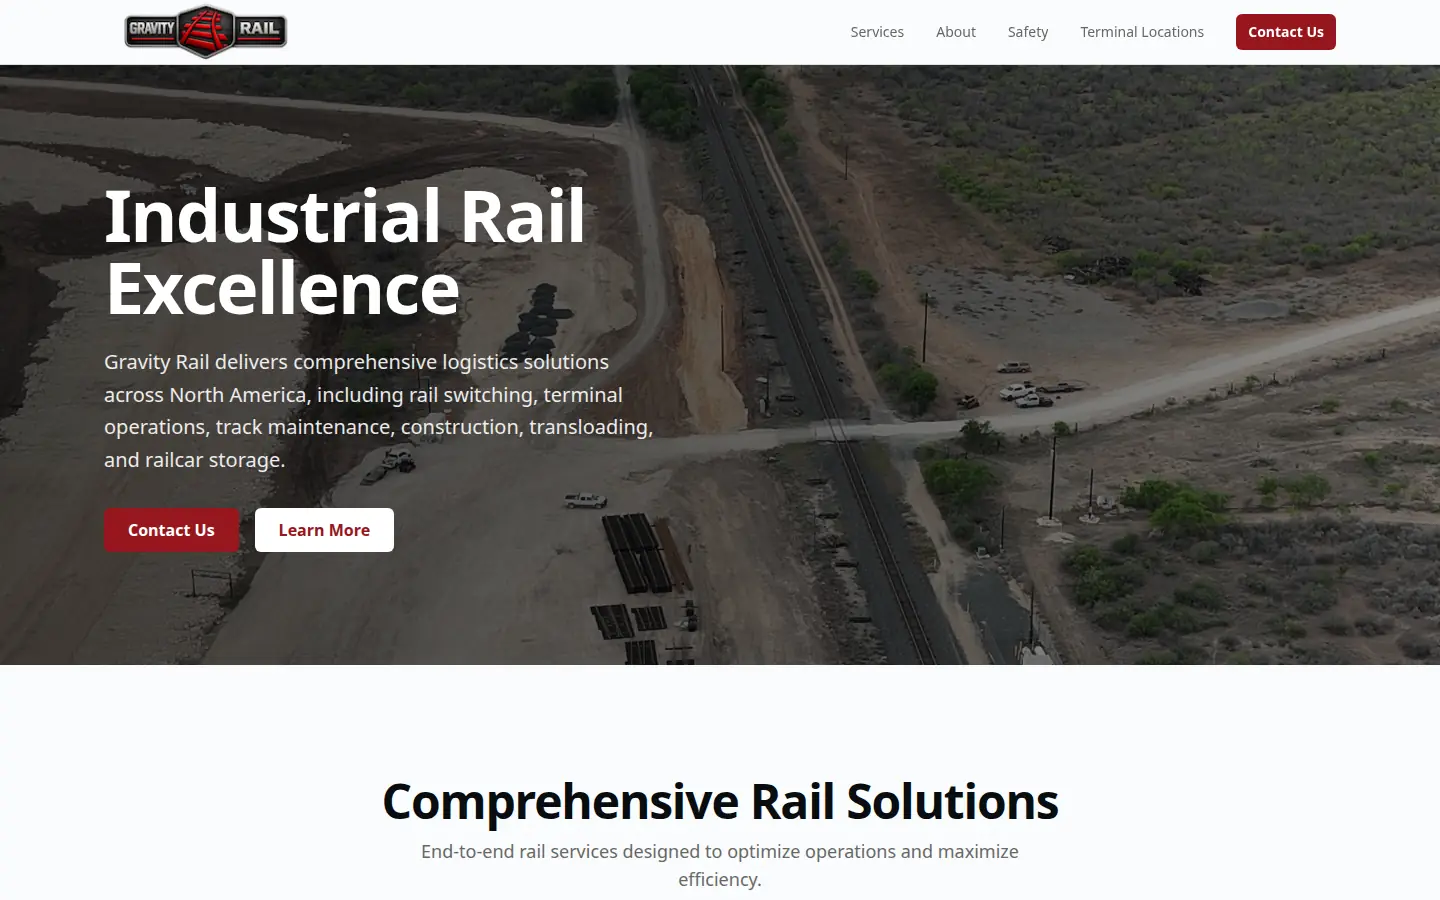
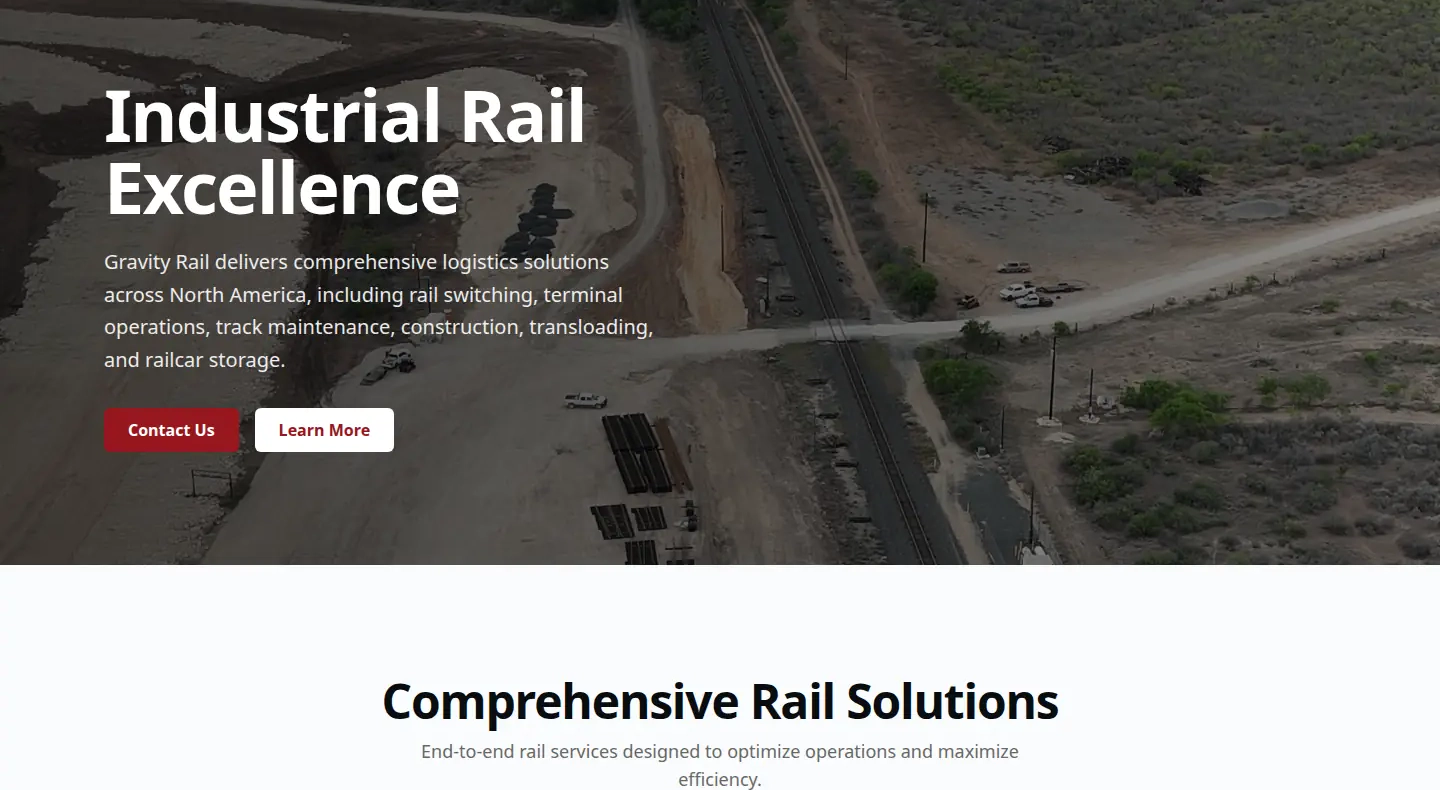
Lift the public site toward the 9.5 pass on issue 14.
Add the approved About close, contact lede, and works intro, and refresh the credit-only portfolio blurbs. Step secondary Home cards down on mobile, re-crop Gravity Rail so the rail heading stays in frame, and use the same cover and primary CTA treatment in light and dark.

diff --git a/src/data/portfolio.ts b/src/data/portfolio.ts
@@ -76,41 +76,49 @@ const COPY: Record<string, PortfolioCopy> = {
     creditOnly: true,
   },
   [IDS.emizel]: {
-    summary: 'Bilingual call-center site and job board. Built by AmpNet.',
-    description: 'Bilingual call-center site and job board. Built by AmpNet.',
+    summary:
+      'Bilingual marketing site and job board for a San Salvador call center. Built by AmpNet.',
+    description:
+      'Bilingual marketing site and job board for a San Salvador call center. Built by AmpNet.',
     creditOnly: true,
   },
   [IDS.txgarage]: {
-    summary: 'Texas auto magazine. Built by AmpNet.',
-    description: 'Texas auto magazine. Built by AmpNet.',
+    summary: 'Texas auto magazine site and publishing stack. Built by AmpNet.',
+    description:
+      'Texas auto magazine site and publishing stack. Built by AmpNet.',
     creditOnly: true,
   },
   [IDS.devision]: {
-    summary: 'Portfolio and booking. Built by AmpNet.',
-    description: 'Portfolio and booking. Built by AmpNet.',
+    summary: 'Portfolio and booking site for a media brand. Built by AmpNet.',
+    description: 'Portfolio and booking site for a media brand. Built by AmpNet.',
     creditOnly: true,
   },
   [IDS.photopti]: {
     title: 'Photopti',
-    summary: 'Open-source CLI tool. Built by AmpNet.',
+    summary:
+      'Open-source CLI for resizing, optimizing, and renaming photos. Built by AmpNet.',
+    description:
+      'Open-source CLI for resizing, optimizing, and renaming photos. Built by AmpNet.',
   },
   [IDS.wink]: {
     title: 'W-Ink',
-    summary: 'Open-source React editor. Built by AmpNet.',
+    summary: 'Open-source React WYSIWYG editor. Built by AmpNet.',
+    description: 'Open-source React WYSIWYG editor. Built by AmpNet.',
   },
   [IDS.scheduleClean]: {
-    summary: 'Built by AmpNet.',
-    description: 'Built by AmpNet.',
+    summary: 'Scheduling site for a Dallas cleaning business. Built by AmpNet.',
+    description:
+      'Scheduling site for a Dallas cleaning business. Built by AmpNet.',
     creditOnly: true,
   },
   [IDS.pirateBen]: {
-    summary: 'Built by AmpNet.',
-    description: 'Built by AmpNet.',
+    summary: 'Personal site. Built by AmpNet.',
+    description: 'Personal site. Built by AmpNet.',
     creditOnly: true,
   },
   [IDS.deepfakeGoldfish]: {
-    summary: 'Built by AmpNet.',
-    description: 'Built by AmpNet.',
+    summary: 'Satirical AI news site. Built by AmpNet.',
+    description: 'Satirical AI news site. Built by AmpNet.',
     creditOnly: true,
   },
   // One-liner reused from Adam's public projects list. Staging stays visible
@@ -165,7 +173,7 @@ const FALLBACK_WEBSITES: Record<string, Website> = {
     IDS.emizel,
     'Emizel',
     'emizel.com',
-    'Bilingual call-center site and job board. Built by AmpNet.',
+    'Bilingual marketing site and job board for a San Salvador call center. Built by AmpNet.',
     'https://flexhub-assets.nyc3.digitaloceanspaces.com/flexhub/sites/c88dba6f-b3fa-46fb-8fce-5881dd308043/logo-1751424293056-1751424293056.png',
     'https://flexhub-assets.nyc3.digitaloceanspaces.com/flexhub/sites/c88dba6f-b3fa-46fb-8fce-5881dd308043/coverImage-1751424258630-1751424258630.png',
     '2025-06-22T11:53:31.223Z',
@@ -175,7 +183,7 @@ const FALLBACK_WEBSITES: Record<string, Website> = {
     IDS.txgarage,
     'TXGarage',
     'txgarage.com',
-    'Texas auto magazine. Built by AmpNet.',
+    'Texas auto magazine site and publishing stack. Built by AmpNet.',
     'https://flexhub-assets.nyc3.digitaloceanspaces.com/flexhub/sites/a3258a5d-d450-4377-a878-7834701396ce/logo-1751171753353-1751171753353.png',
     'https://flexhub-assets.nyc3.digitaloceanspaces.com/flexhub/sites/a3258a5d-d450-4377-a878-7834701396ce/coverImage-1751424594033-1751424594033.png',
     '2025-06-22T11:44:14.231Z',
@@ -185,7 +193,7 @@ const FALLBACK_WEBSITES: Record<string, Website> = {
     IDS.devision,
     'Devision Media',
     'devisionmedia.net',
-    'Portfolio and booking. Built by AmpNet.',
+    'Portfolio and booking site for a media brand. Built by AmpNet.',
     'https://flexhub-assets.nyc3.digitaloceanspaces.com/flexhub/sites/6e954991-5a93-40ba-81e4-2a813b85ab47/logo-1752896576598-1752896576598.png',
     'https://flexhub-assets.nyc3.digitaloceanspaces.com/flexhub/sites/6e954991-5a93-40ba-81e4-2a813b85ab47/coverImage-1752896551334-1752896551334.png',
     '2025-07-17T13:49:35.121Z',
@@ -195,7 +203,7 @@ const FALLBACK_WEBSITES: Record<string, Website> = {
     IDS.scheduleClean,
     'Schedule Clean',
     'schedulecleandallas.com',
-    'Built by AmpNet.',
+    'Scheduling site for a Dallas cleaning business. Built by AmpNet.',
     'https://flexhub-assets.nyc3.digitaloceanspaces.com/flexhub/sites/326556ad-58e9-48e1-a13c-00de528d11a0/logo-1752505716765-1752505716765.png',
     'https://flexhub-assets.nyc3.digitaloceanspaces.com/flexhub/sites/326556ad-58e9-48e1-a13c-00de528d11a0/coverImage-1752505722488-1752505722488.png',
     '2025-07-14T15:07:48.918Z',
@@ -205,7 +213,7 @@ const FALLBACK_WEBSITES: Record<string, Website> = {
     IDS.pirateBen,
     'Pirate Ben',
     'pirateben.com',
-    'Built by AmpNet.',
+    'Personal site. Built by AmpNet.',
     'https://flexhub-assets.nyc3.digitaloceanspaces.com/flexhub/sites/36247f43-b687-49b1-a51f-6fad95bd5a94/logo-1751728217448-1751728217448.png',
     'https://flexhub-assets.nyc3.digitaloceanspaces.com/flexhub/sites/36247f43-b687-49b1-a51f-6fad95bd5a94/coverImage-1751728224403-1751728224403.png',
     '2025-06-22T12:02:03.797Z',
@@ -215,7 +223,7 @@ const FALLBACK_WEBSITES: Record<string, Website> = {
     IDS.deepfakeGoldfish,
     'Deepfake Goldfish',
     'deepfakegoldfish.com',
-    'Built by AmpNet.',
+    'Satirical AI news site. Built by AmpNet.',
     'https://flexhub-assets.nyc3.digitaloceanspaces.com/flexhub/sites/937779d3-41af-47fa-9d99-c01f700d922e/logo-1751171650067-1751171650067.png',
     'https://flexhub-assets.nyc3.digitaloceanspaces.com/flexhub/sites/937779d3-41af-47fa-9d99-c01f700d922e/coverImage-1751424477776-1751424477776.png',
     '2025-06-22T11:54:00.469Z',
@@ -316,11 +324,11 @@ const FALLBACK_WORKS: Record<string, WorkItem> = {
       'cli-tool',
       'work',
       'https://flexhub-assets.nyc3.digitaloceanspaces.com/flexhub/media/ampnet-media/works/1756172569401-Logo-Work-2.jpg',
-      'An open-source photo resizing, optimizing, and renaming tool built for the command line.',
+      'Open-source CLI for resizing, optimizing, and renaming photos. Built by AmpNet.',
       'https://github.com/ampnetmedia/photopti'
     ),
     excerpt:
-      'An open-source photo resizing, optimizing, and renaming tool built for the command line.',
+      'Open-source CLI for resizing, optimizing, and renaming photos. Built by AmpNet.',
     client: 'Open Source',
     technologies: ['Typescript', 'Javascript'],
     githubUrl: 'https://github.com/ampnetmedia/photopti',
@@ -335,10 +343,10 @@ const FALLBACK_WORKS: Record<string, WorkItem> = {
       'cli-tool',
       'work',
       'https://flexhub-assets.nyc3.digitaloceanspaces.com/flexhub/media/ampnet-media/works/1758296946370-wink-cover.jpg',
-      'A modern WYSIWYG editor with social smarts.',
+      'Open-source React WYSIWYG editor. Built by AmpNet.',
       'https://www.npmjs.com/package/@ampnet/wink-wysiwyg'
     ),
-    excerpt: 'A modern WYSIWYG editor with social smarts',
+    excerpt: 'Open-source React WYSIWYG editor. Built by AmpNet.',
     client: 'Open Source',
     technologies: ['React', 'Typescript'],
     githubUrl: 'https://github.com/ampnetmedia/wink-wysiwyg',
@@ -381,7 +389,7 @@ const FALLBACK_WORKS: Record<string, WorkItem> = {
       'website',
       'website',
       FALLBACK_WEBSITES[IDS.deepfakeGoldfish].logo || '',
-      'Built by AmpNet.',
+      'Satirical AI news site. Built by AmpNet.',
       'https://deepfakegoldfish.com'
     ),
     creditOnly: true,

diff --git a/src/_components/WorkCard.tsx b/src/_components/WorkCard.tsx
@@ -28,8 +28,12 @@ export default function WorkCard({
         lead || banner ? 'block w-full' : 'flex gap-4 p-4'
       } ${className}`}
     >
-      <Thumb work={work} lead={lead} banner={banner} />
-      <div className={`min-w-0 flex-1 ${lead || banner ? 'p-4 md:p-5' : ''}`}>
+      <Thumb work={work} lead={lead} />
+      <div
+        className={`min-w-0 flex-1 ${
+          lead ? 'p-4 md:p-5' : banner ? 'px-4 py-3' : ''
+        }`}
+      >
         <div className="flex items-baseline justify-between gap-3">
           <h3
             className={`font-semibold text-slate-950 dark:text-white ${
@@ -43,12 +47,16 @@ export default function WorkCard({
           </span>
         </div>
         {work.featured ? (
-          <p className="mt-1 text-xs font-semibold text-teal-800 dark:text-teal-300">
+          <p className="mt-0.5 text-xs font-semibold text-teal-800 dark:text-teal-300">
             Featured
           </p>
         ) : null}
         {summary ? (
-          <p className="mt-1 text-sm leading-relaxed text-slate-600 dark:text-slate-300">
+          <p
+            className={`mt-1 text-sm text-slate-600 dark:text-slate-300 ${
+              banner ? 'leading-snug' : 'leading-relaxed'
+            }`}
+          >
             {summary}
           </p>
         ) : null}
@@ -63,27 +71,20 @@ export default function WorkCard({
   );
 }
 
-function Thumb({
-  work,
-  lead,
-  banner,
-}: {
-  work: WorkItem;
-  lead: boolean;
-  banner: boolean;
-}) {
+function Thumb({ work, lead }: { work: WorkItem; lead: boolean }) {
+  const banner = Boolean(work.hasCover && work.image) && !lead;
   if (lead || banner) {
     return (
       <div
         className={`relative bg-slate-100 dark:bg-slate-800 ${
-          lead ? 'aspect-[16/9]' : 'aspect-[5/2]'
+          lead ? 'aspect-[16/9]' : 'aspect-[3/1] md:aspect-[5/2]'
         }`}
       >
         <Image
           src={work.image}
           alt=""
           fill
-          className={`object-cover ${banner ? 'object-top' : ''}`}
+          className="object-cover"
           unoptimized
           {...(lead ? { priority: true } : { loading: 'eager' as const })}
         />

diff --git a/src/_components/Contact.tsx b/src/_components/Contact.tsx
@@ -1,22 +1,20 @@
 import { SITE } from '@/data/site-copy';
+import { headline, lede, primaryButton } from '@/lib/studio';
 import Link from 'next/link';
 
 export default function Contact({ compact = false }: { compact?: boolean }) {
   return (
-    <section className={compact ? 'px-6 pb-8 pt-8' : 'px-6 py-14'}>
-      <div
-        className={`mx-auto max-w-3xl rounded-2xl bg-slate-950 px-6 text-white md:px-10 ${
-          compact ? 'py-8' : 'py-10'
-        }`}
-      >
-        <h2 className="text-3xl font-semibold tracking-tight md:text-4xl">
+    <section className={compact ? 'px-6 pb-10 pt-8' : 'px-6 pb-16 pt-8'}>
+      <div className="mx-auto max-w-3xl">
+        <h2 className={`${headline} text-3xl md:text-4xl`}>
           {SITE.contactHeading}
         </h2>
-        <p className="mt-4 text-slate-300">
+        <p className={`${lede} mt-4`}>{SITE.contactLede}</p>
+        <p className={`${lede} mt-3`}>
           Or email us at{' '}
           <a
             href={`mailto:${SITE.email}`}
-            className="font-medium text-white underline underline-offset-4"
+            className="font-semibold text-teal-800 underline underline-offset-4 dark:text-teal-300"
           >
             {SITE.email}
           </a>
@@ -24,7 +22,7 @@ export default function Contact({ compact = false }: { compact?: boolean }) {
         </p>
         <Link
           href={SITE.primaryHref}
-          className={`${compact ? 'mt-5' : 'mt-8'} inline-flex items-center justify-center rounded-full bg-white px-5 py-2.5 text-sm font-semibold text-slate-950 hover:bg-slate-100 focus-visible:outline focus-visible:outline-2 focus-visible:outline-offset-2 focus-visible:outline-white`}
+          className={`${primaryButton} ${compact ? 'mt-5' : 'mt-6'}`}
         >
           {SITE.primaryCta}
         </Link>

diff --git a/src/data/site-copy.ts b/src/data/site-copy.ts
@@ -8,8 +8,13 @@ export const SITE = {
     'AmpNet is a creative and development studio in Dallas. We design and build websites, tools, and digital products that do a real job for the people who use them.',
   about:
     'AmpNet is a creative and development studio in Dallas, Texas, led by Adam Moore, CTO. We build websites, tools, and digital products for businesses and creators.',
+  aboutClose:
+    'One studio. Design, build, and keep the site running when that’s part of the job.',
   contactHeading: 'Have something that needs building?',
+  contactLede:
+    'Websites, tools, or a product that needs a real interface. Tell us what you’re trying to ship.',
   contactSecondary: 'Or email us at contact@ampnetmedia.com.',
+  worksIntro: 'Selected websites, tools, and products.',
   footerLine: 'Websites, tools, and digital products, built in Dallas.',
   copyright: '© 2026 AmpNet.',
   primaryCta: 'Start a project',

diff --git a/src/_components/About.tsx b/src/_components/About.tsx
@@ -4,13 +4,14 @@ import Link from 'next/link';
 
 export default function About() {
   return (
-    <section id="about" className="scroll-mt-24 px-6 py-14">
+    <section id="about" className="scroll-mt-24 px-6 pt-14 pb-6">
       <div className="mx-auto max-w-3xl">
         <h2 className={`${headline} text-3xl md:text-4xl`}>About</h2>
         <p className={`${lede} mt-4`}>{SITE.about}</p>
+        <p className={`${lede} mt-4`}>{SITE.aboutClose}</p>
         <Link
           href="/about/"
-          className="mt-6 inline-flex text-sm font-semibold text-teal-800 underline-offset-4 hover:underline dark:text-teal-300"
+          className="mt-5 inline-flex text-sm font-semibold text-teal-800 underline-offset-4 hover:underline dark:text-teal-300"
         >
           About AmpNet
         </Link>

diff --git a/src/app/about/page.tsx b/src/app/about/page.tsx
@@ -13,11 +13,12 @@ export const metadata: Metadata = pageMeta({
 
 export default function AboutPage() {
   return (
-    <div className="pb-2 pt-28">
+    <div className="pt-28">
       <div className="mx-auto max-w-3xl px-6">
         <h1 className={`${headline} text-4xl md:text-5xl`}>About</h1>
-        <p className={`${lede} mt-3`}>{SITE.about}</p>
-        <div className="mt-10 grid gap-4 sm:grid-cols-2">
+        <p className={`${lede} mt-4`}>{SITE.about}</p>
+        <p className={`${lede} mt-4`}>{SITE.aboutClose}</p>
+        <div className="mt-8 grid gap-4 sm:grid-cols-2">
           {serviceFacts.map(service => (
             <div key={service.title} className={`${surface} p-5`}>
               <service.icon

diff --git a/src/app/works/page.tsx b/src/app/works/page.tsx
@@ -1,4 +1,5 @@
 import Contact from '@/_components/Contact';
+import { SITE } from '@/data/site-copy';
 import { getCombinedWorks } from '@/data/works';
 import { pageMeta } from '@/lib/seo';
 import { headline, lede } from '@/lib/studio';
@@ -19,9 +20,7 @@ export default function WorksPage() {
     <div className="pb-8 pt-28">
       <div className="mx-auto max-w-3xl px-6">
         <h1 className={`${headline} text-4xl md:text-5xl`}>Work</h1>
-        <p className={`${lede} mt-4`}>
-          Websites, tools, and products. Built by AmpNet.
-        </p>
+        <p className={`${lede} mt-4`}>{SITE.worksIntro}</p>
         <div className="mt-10">
           <WorksList allWorks={allWorks} />
         </div>

diff --git a/src/app/works/websites/[id]/page.tsx b/src/app/works/websites/[id]/page.tsx
@@ -65,7 +65,7 @@ export default async function WebsiteCaseStudy({
         </Link>
 
         {website.coverImage ? (
-          <div className="relative mt-6 aspect-[16/8] overflow-hidden rounded-2xl border border-slate-200 bg-slate-100 dark:border-slate-800 dark:bg-slate-900">
+          <div className="relative mt-6 aspect-[16/9] overflow-hidden rounded-2xl border border-slate-200 bg-slate-100 dark:border-slate-800 dark:bg-slate-900">
             <Image
               src={website.coverImage}
               alt=""

diff --git a/src/_components/Work.tsx b/src/_components/Work.tsx
@@ -15,7 +15,7 @@ export default function Work() {
           <div>
             <h2 className={`${headline} text-3xl md:text-4xl`}>Work</h2>
             <p className="mt-3 max-w-xl text-slate-600 dark:text-slate-300">
-              Selected websites, tools, and products.
+              {SITE.worksIntro}
             </p>
           </div>
           <Link href={SITE.secondaryHref} className={secondaryButton}>

diff --git a/src/app/contact/page.tsx b/src/app/contact/page.tsx
@@ -103,7 +103,8 @@ export default function ContactPage() {
         <h1 className={`${headline} text-4xl md:text-5xl`}>
           {SITE.contactHeading}
         </h1>
-        <p className={`${lede} mt-4`}>
+        <p className={`${lede} mt-4`}>{SITE.contactLede}</p>
+        <p className={`${lede} mt-3`}>
           Or email us at{' '}
           <a
             href={`mailto:${SITE.email}`}
